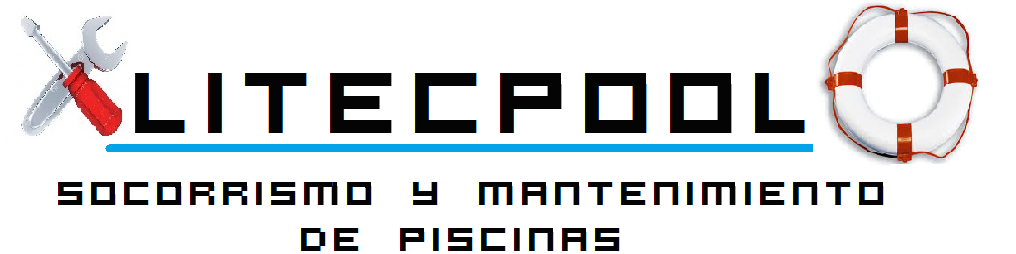
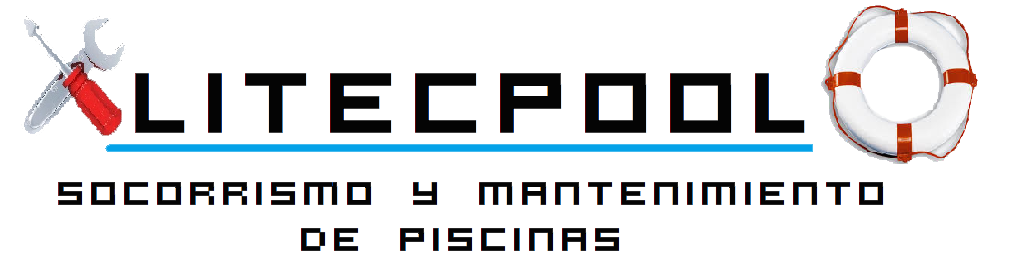
updating images and fix typo

diff --git a/index.html b/index.html
@@ -9,7 +9,7 @@
   </head>
   <body>
     <div id="title">
-      <img src="images/litecpool.png"></img>
+      <img src="images/litecpool.png" style="max-width:90%"></img>
     </div>
     <div class="wrap">
       <div class="left">
@@ -20,7 +20,7 @@
           <a href="www.jaimechapinal.com">  Webmaster</a>
         </div>
       </div>
-      <div class="center">
+      <div class="center texto">
         Litecpool nace desde la necesidad de realizar un servicio de mantenimiento de piscinas eficaz, rápido y seguro, con el que trataremos cualquier contratiempo que afecte al funcionamiento de la instalación.
 
         Contamos con un equipo de mantenimiento experimentado y socorristas con la titulacion necesaria para llevar a cabo esta labor.
@@ -28,7 +28,6 @@
         Entre nuestros servicios está: 
         <ul>
           <li>Mantenimiento disponible 24 horas al día (mantenimiento en invierno)</li>
-          <li>hol</li>
           <li>Reparaciones en las instalaciones</li>
           <li>Socorristas titulados</li>
           <li>Monitores de natación</li>

diff --git a/styles.css b/styles.css
@@ -4,6 +4,7 @@
 
 body {
 	background-image: url("images/fondo_agua.png");
+	font-family: Arial, 'Helvetica Neue', Helvetica, sans-serif;
 }
 
 #title {
@@ -15,6 +16,7 @@ body {
 #imgContent {
 	max-width:  90%;
 	max-height: 90%;
+	border: 1px solid #021a40;
 }
 
 .desc {
@@ -38,4 +40,8 @@ body {
 .right {
   float: right;
   width: 33%;
+}
+
+.texto {
+	background-color: rgb(202,230,244);
 }
